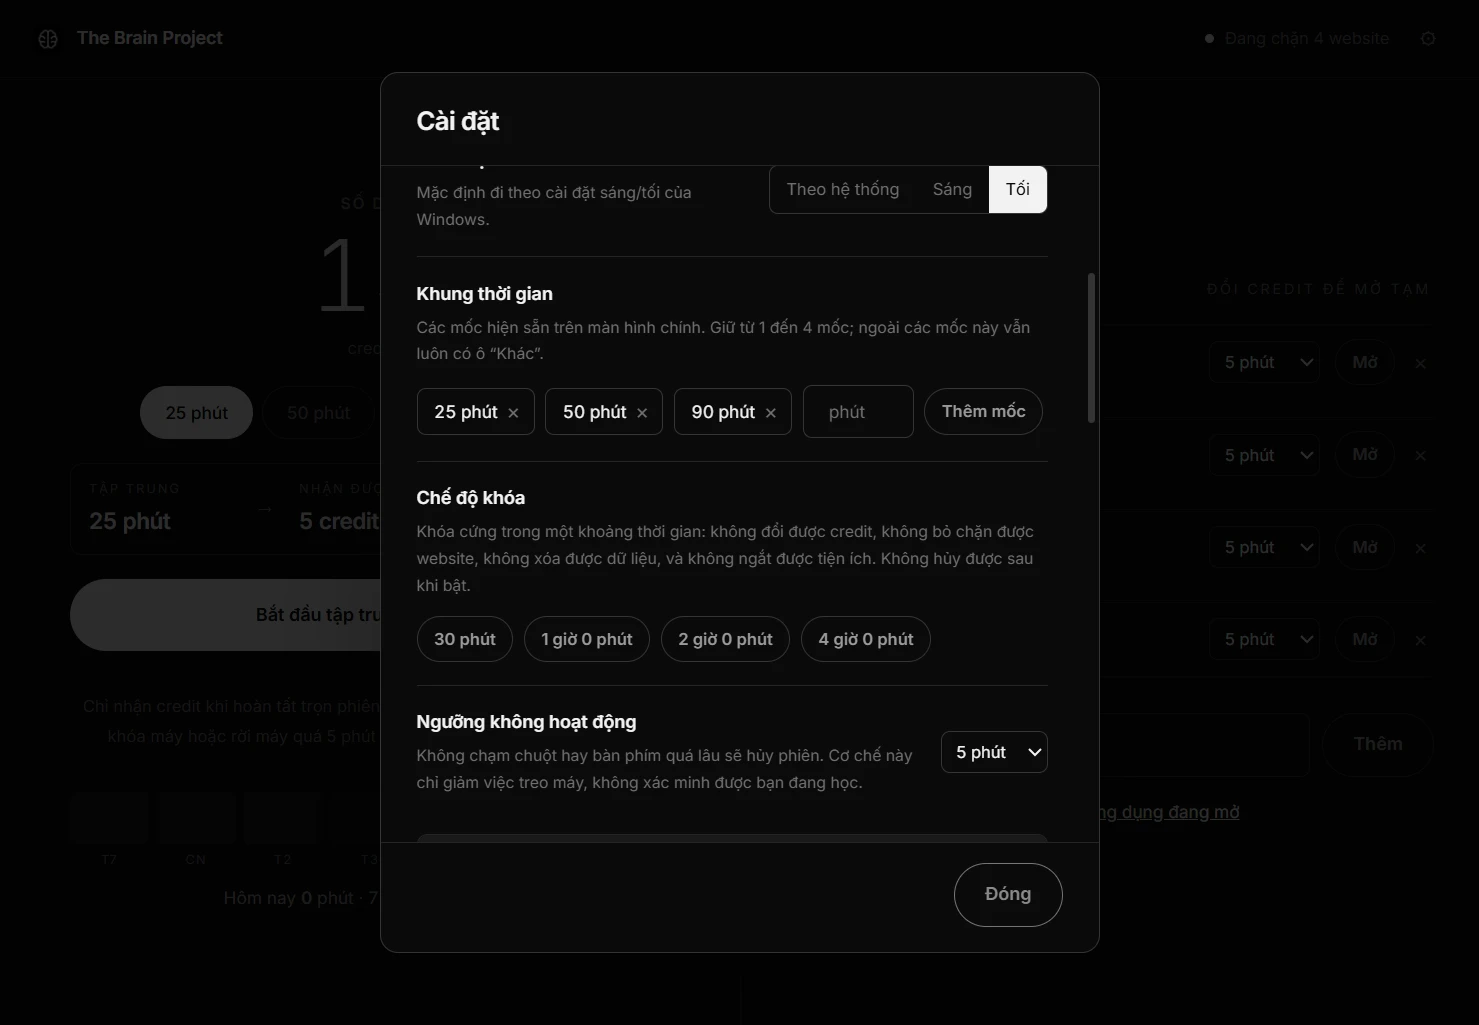
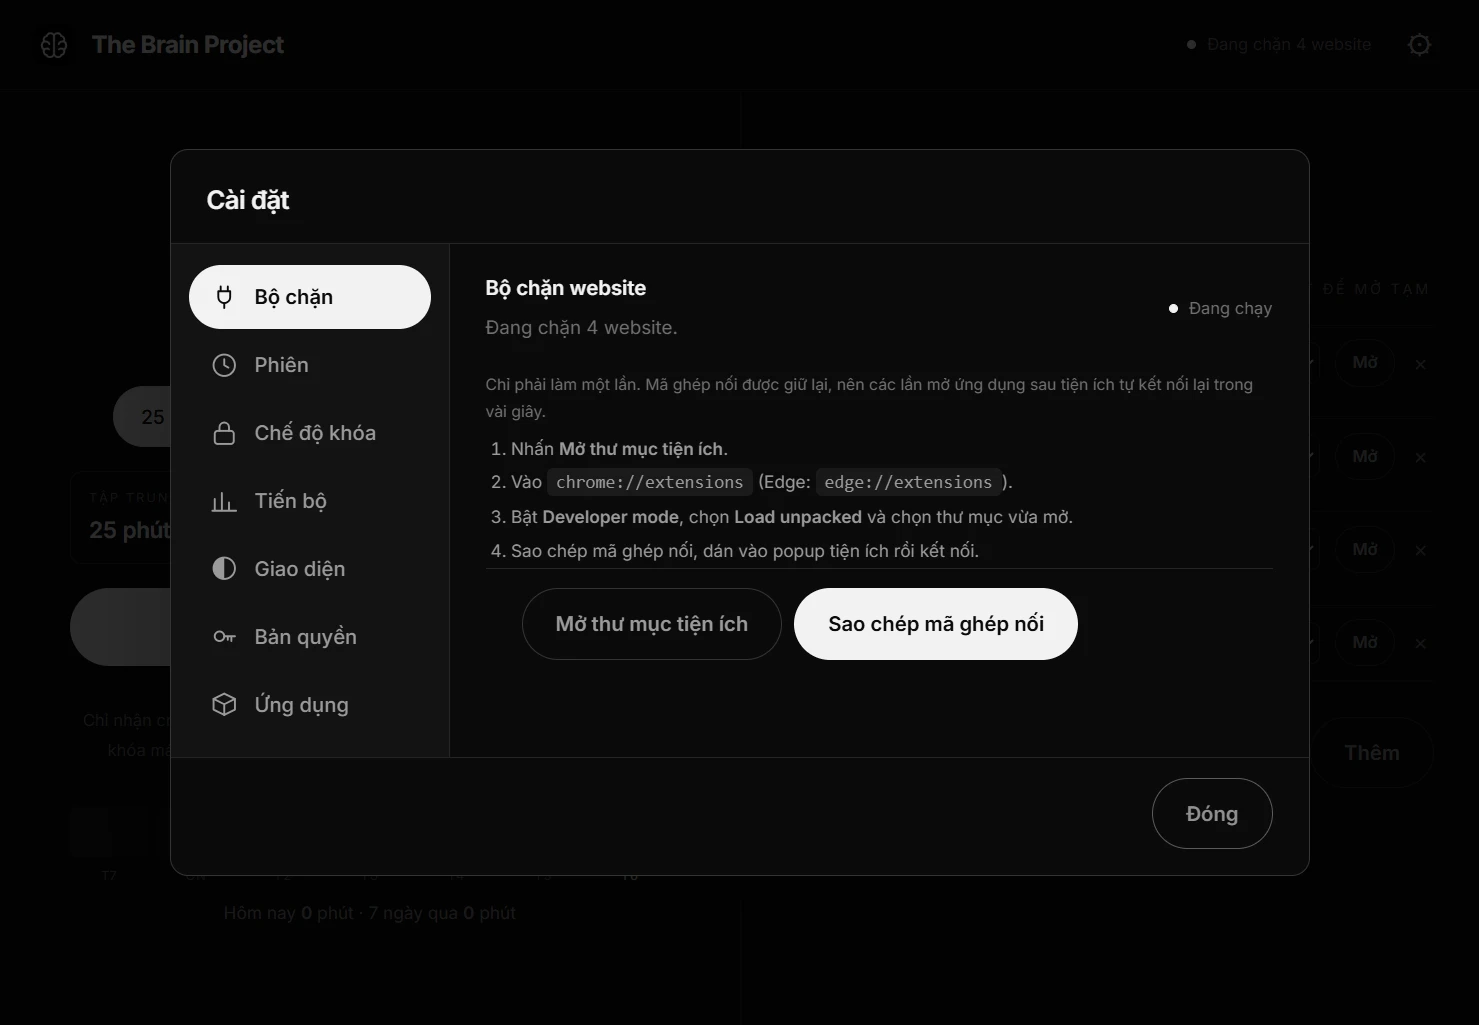
Cài đặt chia bảy tab, và phóng to chữ trong ứng dụng
Bảng cài đặt trước đây nhồi mười hai khối vào một cột cuộn, phải kéo rất
sâu mới tới mục cuối. Nay thanh mục bên trái đứng yên, chỉ phần nội dung
cuộn: Bộ chặn, Phiên, Chế độ khóa, Tiến bộ, Giao diện, Bản quyền, Ứng
dụng. Tab Chế độ khóa tự biến mất ở bậc Free, và nếu đang đứng ở đó thì
lùi về tab đầu thay vì hiện panel rỗng.

Icon vẽ bằng SVG nét chứ không dùng emoji: emoji có màu riêng và mỗi hệ
điều hành vẽ một kiểu, phá luôn nguyên tắc đơn sắc của sản phẩm.

Cỡ chữ nền 13px lên 14.5px, và các cỡ phụ thuộc nâng theo — 13px quá nhỏ
cho một app người ta mở hằng ngày. Logo 20px lên 28px, tên sản phẩm 12px
lên 16px đậm hơn, icon cài đặt 14px lên 21px và đổi từ xám sang đen.
Thanh trên cao thêm 8px để chứa.

Bốn bài kiểm phải sửa theo vì nút đã đổi chỗ, không phải vì hỏng: nút chủ
đề nay nằm trong tab Giao diện, khung thời gian trong tab Phiên, nút khóa
trong tab Chế độ khóa, nút xóa dữ liệu trong tab Ứng dụng. Bài kiểm cuộn
cũng đổi từ #setup-body sang .setup-panel, giữ nguyên ý định cũ là tiêu
đề và hàng nút phải đứng yên, và thêm phần khẳng định bấm tab thì nội
dung đổi theo.

Chụp lại toàn bộ ảnh trên website. Ảnh chế độ tối trước đó rơi đúng vào
tab Giao diện gần như trống nên cho bài kiểm bấm sang tab có nội dung
trước khi chụp.

diff --git a/src/ui/app.js b/src/ui/app.js
@@ -189,38 +189,96 @@ function licenseView(){
     <p class="small-note">Mã được lưu mã hóa trong một file riêng, <b>không nằm chung với dữ liệu</b> — nên “Xóa toàn bộ dữ liệu” không làm mất bản quyền bạn đã mua.</p></div>`;
 }
 
-function setupView(){
+// ── Cài đặt: bảy mục, mỗi mục một tab ──────────────────────────────
+// Trước đây cả mười hai khối nằm chung một cột cuộn dài, phải kéo rất sâu mới
+// tới mục cuối. Nay thanh bên trái đứng yên, chỉ phần nội dung cuộn.
+let setupTab='blocker';
+
+// Icon vẽ bằng SVG nét, không dùng emoji: emoji có màu riêng và mỗi hệ điều
+// hành vẽ một kiểu, phá luôn nguyên tắc đơn sắc của sản phẩm.
+const ICON={
+  blocker:'<path d="M9 7V3M15 7V3M7 7h10v5a5 5 0 0 1-10 0z"/><path d="M12 17v4"/>',
+  look:'<circle cx="12" cy="12" r="9"/><path d="M12 3a9 9 0 0 0 0 18z" fill="currentColor" stroke="none"/>',
+  session:'<circle cx="12" cy="12" r="9"/><path d="M12 7v5l3.5 2"/>',
+  lock:'<rect x="4" y="10" width="16" height="11" rx="2.5"/><path d="M8 10V7a4 4 0 0 1 8 0v3"/>',
+  history:'<path d="M4 20V10M10 20V5M16 20v-7M22 20H2"/>',
+  license:'<circle cx="8" cy="12" r="4"/><path d="M12 12h9M18 12v4M15 12v3"/>',
+  app:'<path d="M12 3 3 7.5v9L12 21l9-4.5v-9z"/><path d="M3 7.5 12 12l9-4.5M12 12v9"/>',
+};
+const svgIcon=id=>`<svg class="tab-ico" viewBox="0 0 24 24" fill="none" stroke="currentColor" stroke-width="1.6" stroke-linecap="round" stroke-linejoin="round" aria-hidden="true">${ICON[id]}</svg>`;
+
+function tabBlocker(){
   const connected=state.system.extensionConnected;
-  const themes=[['system','Theo hệ thống'],['light','Sáng'],['dark','Tối']];
   return `<div class="set-row"><div><b>Bộ chặn website</b><p>${connected?'Đang chặn '+state.targets.length+' website.':'Chưa chặn được website nào — tiện ích không kết nối.'}${state.system.bridgeError?'<br>'+esc(state.system.bridgeError):''}</p></div><span class="chip ${connected?'on':''}">${connected?'Đang chạy':'Chưa chạy'}</span></div>
   <p class="small-note">Chỉ phải làm một lần. Mã ghép nối được giữ lại, nên các lần mở ứng dụng sau tiện ích tự kết nối lại trong vài giây.</p>
   <ol class="steps"><li>Nhấn <b>Mở thư mục tiện ích</b>.</li><li>Vào <code>chrome://extensions</code> (Edge: <code>edge://extensions</code>).</li><li>Bật <b>Developer mode</b>, chọn <b>Load unpacked</b> và chọn thư mục vừa mở.</li><li>Sao chép mã ghép nối, dán vào popup tiện ích rồi kết nối.</li></ol>
-  <div class="actions start"><button class="ghost" data-system="extensionFolder">Mở thư mục tiện ích</button><button class="primary" data-system="copyPairing">Sao chép mã ghép nối</button></div>
-  <div class="set-row"><div><b>Giao diện</b><p>Mặc định đi theo cài đặt sáng/tối của Windows.</p></div>
-    <span class="seg" role="group" aria-label="Chủ đề giao diện">${themes.map(([id,name])=>`<button class="${state.theme===id?'on':''}" data-theme="${id}">${name}</button>`).join('')}</span></div>
-  <div class="set-row col"><div><b>Khung thời gian</b><p>Các mốc hiện sẵn trên màn hình chính. Giữ từ 1 đến ${state.maxPresets} mốc; ngoài các mốc này vẫn luôn có ô “Khác”.</p></div>
+  <div class="actions start"><button class="ghost" data-system="extensionFolder">Mở thư mục tiện ích</button><button class="primary" data-system="copyPairing">Sao chép mã ghép nối</button></div>`;
+}
+
+function tabLook(){
+  const themes=[['system','Theo hệ thống'],['light','Sáng'],['dark','Tối']];
+  return `<div class="set-row col"><div><b>Giao diện</b><p>Mặc định đi theo cài đặt sáng/tối của Windows.</p></div>
+    <span class="seg" role="group" aria-label="Chủ đề giao diện">${themes.map(([id,name])=>`<button class="${state.theme===id?'on':''}" data-theme="${id}">${name}</button>`).join('')}</span></div>`;
+}
+
+function tabSession(){
+  return `<div class="set-row col"><div><b>Khung thời gian</b><p>Các mốc hiện sẵn trên màn hình chính. Giữ từ 1 đến ${state.maxPresets} mốc; ngoài các mốc này vẫn luôn có ô “Khác”.</p></div>
     <div class="preset-edit">
       ${state.presets.map(m=>`<span class="preset-chip">${m} phút${state.presets.length>1?`<button class="x" data-preset-remove="${m}" aria-label="Bỏ khung ${m} phút">×</button>`:''}</span>`).join('')}
       ${state.presets.length<state.maxPresets?`<form class="preset-add" data-form="presetAdd"><input class="field narrow" name="minutes" type="number" min="1" max="180" placeholder="phút" aria-label="Số phút cho khung mới" required><button class="ghost small">Thêm mốc</button></form>`:'<span class="preset-note">Đã đủ mốc. Bỏ bớt một mốc để thêm mốc khác.</span>'}
     </div></div>
-  ${state.lockedMode?`<div class="set-row col"><div><b>Chế độ khóa</b><p>${locked()
-    ? `Đang khóa, còn <b>${hhmm(state.lockUntil-state.now)}</b>. Không có cách nào rút ngắn — kể cả xóa dữ liệu.`
-    : 'Khóa cứng trong một khoảng thời gian: không đổi được credit, không bỏ chặn được website, không xóa được dữ liệu, và không ngắt được tiện ích. Không hủy được sau khi bật.'}</p></div>
-    ${locked()?'':`<div class="preset-edit">${state.lockPacks.map(m=>`<button class="ghost small" data-lock="${m}">${hhmm(m*60000)}</button>`).join('')}</div>`}</div>`:''}
   <div class="set-row"><div><b>Ngưỡng không hoạt động</b><p>Không chạm chuột hay bàn phím quá lâu sẽ hủy phiên. Cơ chế này chỉ giảm việc treo máy, không xác minh được bạn đang học.</p></div>
     <select id="idle" class="field mins" aria-label="Ngưỡng không hoạt động" ${state.session?'disabled':''}>${[120,300,600,900].map(n=>`<option value="${n}" ${state.idleSeconds===n?'selected':''}>${n/60} phút</option>`).join('')}</select></div>
-  <div class="ratio"><div><span>Tập trung</span><span>Nhận được</span></div>${[25,50,90].map(m=>`<div><span>${m} phút</span><span>${creditsFor(m)} credit</span></div>`).join('')}</div>
-  <div class="set-row col"><div><b>Tiến bộ</b><p>Lưu ${state.historyDays} ngày gần nhất. Chỉ đếm phiên hoàn tất trọn vẹn.</p></div>
+  <div class="set-row col"><div><b>Bảng quy đổi</b><p>Tỉ lệ cố định, không đổi được: 5 phút tập trung bằng 1 credit.</p></div>
+    <div class="ratio"><div><span>Tập trung</span><span>Nhận được</span></div>${[25,50,90].map(m=>`<div><span>${m} phút</span><span>${creditsFor(m)} credit</span></div>`).join('')}</div></div>`;
+}
+
+function tabLock(){
+  return `<div class="set-row col"><div><b>Chế độ khóa</b><p>${locked()
+    ? `Đang khóa, còn <b>${hhmm(state.lockUntil-state.now)}</b>. Không có cách nào rút ngắn — kể cả xóa dữ liệu.`
+    : 'Khóa cứng trong một khoảng thời gian: không đổi được credit, không bỏ chặn được website, không xóa được dữ liệu, và không ngắt được tiện ích. Không hủy được sau khi bật.'}</p></div>
+    ${locked()?'':`<div class="preset-edit">${state.lockPacks.map(m=>`<button class="ghost small" data-lock="${m}">${hhmm(m*60000)}</button>`).join('')}</div>`}</div>`;
+}
+
+function tabHistory(){
+  return `<div class="set-row col"><div><b>Tiến bộ</b><p>Lưu ${state.historyDays} ngày gần nhất. Chỉ đếm phiên hoàn tất trọn vẹn.</p></div>
     <div class="ratio">${(()=>{const rows=state.history.filter(d=>d.minutes||d.interrupted).slice(0,14);
       return '<div><span>Ngày</span><span>Tập trung · nhận được</span></div>'+(rows.length
         ? rows.map(d=>`<div><span>${d.day.slice(8)}/${d.day.slice(5,7)}${d.day===state.history[0]?.day&&d.day===lastDays(1)[0].day?' · hôm nay':''}</span><span>${d.minutes} phút · ${num(d.earned)} credit${d.interrupted?` · ${d.interrupted} phiên dở`:''}</span></div>`).join('')
-        : '<div><span>Chưa có ngày nào</span><span>Hoàn tất một phiên để bắt đầu</span></div>');})()}</div></div>
-  ${licenseView()}
-  ${plansView()}
-  ${updateView()}
+        : '<div><span>Chưa có ngày nào</span><span>Hoàn tất một phiên để bắt đầu</span></div>');})()}</div></div>`;
+}
+
+function tabLicense(){ return licenseView()+plansView(); }
+
+function tabApp(){
+  return `${updateView()}
   <div class="set-row"><div><b>Góp ý</b><p>Kẹt ở đâu, thấy chỗ nào khó hiểu, hay muốn xin thêm tính năng — nói thẳng với tác giả. Ứng dụng không thu thập gì về bạn, nên đây là cách duy nhất tôi biết được điều gì đang không ổn.</p></div>
     <div class="actions start"><button class="ghost small" data-system="feedbackIssues">Mở GitHub</button><button class="primary small" data-system="feedbackEmail">Gửi email</button></div></div>
   <div class="set-row"><div><b>Dữ liệu</b><p>Chỉ lưu trên máy này và mã hóa theo tài khoản Windows. Phiên bản ${esc(state.system.version)}.</p></div><button class="ghost danger" data-system="reset" ${locked()?'disabled':''}>Xóa toàn bộ</button></div>`;
+}
+
+function setupTabs(){
+  const t=[
+    {id:'blocker', ten:'Bộ chặn',     view:tabBlocker},
+    {id:'session', ten:'Phiên',       view:tabSession},
+    {id:'lock',    ten:'Chế độ khóa', view:tabLock, an:!state.lockedMode},
+    {id:'history', ten:'Tiến bộ',     view:tabHistory},
+    {id:'look',    ten:'Giao diện',   view:tabLook},
+    {id:'license', ten:'Bản quyền',   view:tabLicense},
+    {id:'app',     ten:'Ứng dụng',    view:tabApp},
+  ];
+  return t.filter(x=>!x.an);
+}
+
+function setupView(){
+  const tabs=setupTabs();
+  // Bậc Free không có chế độ khóa nên tab đó biến mất; nếu đang đứng ở đó thì lùi về tab đầu.
+  if(!tabs.some(t=>t.id===setupTab)) setupTab=tabs[0].id;
+  const hien=tabs.find(t=>t.id===setupTab);
+  return `<nav class="setup-rail" role="tablist" aria-label="Mục cài đặt">
+    ${tabs.map(t=>`<button role="tab" aria-selected="${t.id===setupTab}" data-setup-tab="${t.id}" class="${t.id===setupTab?'on':''}">${svgIcon(t.id)}<span>${t.ten}</span></button>`).join('')}
+  </nav>
+  <div class="setup-panel" role="tabpanel">${hien.view()}</div>`;
 }
 
 const signature=s=>JSON.stringify({...s,now:0,session:s.session?{...s.session,elapsedMs:0}:null,grants:s.grants.map(g=>({...g,until:0})),lastSession:0});
@@ -259,6 +317,7 @@ document.addEventListener('click',async e=>{
   const b=e.target.closest('button');if(!b)return;
   if(b.id==='open-setup'||b.id==='warn-setup'){$('#setup-body').innerHTML=setupView();$('#setup').showModal();return;}
   if(b.id==='setup-close'){$('#setup').close();return;}
+  if(b.dataset.setupTab){setupTab=b.dataset.setupTab;$('#setup-body').innerHTML=setupView();$('.setup-panel').scrollTop=0;return;}
   if(b.id==='add-app'){pickApp();return;}
   if(b.dataset.exe){
     $('#confirm').close();$('#confirm-yes').style.display='';

diff --git a/src/ui/style.css b/src/ui/style.css
@@ -17,7 +17,7 @@
   --line:#e6e6e6; --line-2:#d8d8d8;
   --on:#0b0b0b; --on-ink:#ffffff;
   --mark-filter:none;
-  --bar-h:52px;
+  --bar-h:60px;
   --ease:cubic-bezier(.2,.7,.3,1);
 }
 /* "Theo hệ thống" đi theo Windows; hai lựa chọn kia ghi đè bằng data-theme. */
@@ -40,7 +40,7 @@
 
 *{box-sizing:border-box}
 html,body{height:100%}
-body{margin:0;background:var(--bg);color:var(--ink);font-family:Inter,'Segoe UI',system-ui,Arial,sans-serif;font-size:13px;line-height:1.6;-webkit-font-smoothing:antialiased;display:flex;flex-direction:column}
+body{margin:0;background:var(--bg);color:var(--ink);font-family:Inter,'Segoe UI',system-ui,Arial,sans-serif;font-size:14.5px;line-height:1.65;-webkit-font-smoothing:antialiased;display:flex;flex-direction:column}
 button,input,select{font:inherit;outline:none;color:inherit}
 button{cursor:pointer;transition:background .16s var(--ease),border-color .16s var(--ease),color .16s var(--ease),opacity .16s var(--ease),transform .16s var(--ease)}
 /* Phản hồi phải xuất hiện ngay lúc ngón tay/chuột NHẤN XUỐNG, không đợi lúc nhả.
@@ -50,7 +50,7 @@ button:not(:disabled):active{transform:scale(.97)}
 button:disabled,select:disabled{cursor:not-allowed;opacity:.4}
 button:focus-visible,input:focus-visible,select:focus-visible{outline:2px solid var(--ink);outline-offset:2px}
 b{font-weight:600}
-code{background:var(--shade);border-radius:3px;padding:1px 5px;font-size:11px;font-family:ui-monospace,Consolas,monospace}
+code{background:var(--shade);border-radius:4px;padding:2px 6px;font-size:12px;font-family:ui-monospace,Consolas,monospace}
 
 /* Thanh cuộn mảnh, không nền, chỉ hiện khi con trỏ ở trong vùng cuộn được. */
 ::-webkit-scrollbar{width:10px;height:10px}
@@ -61,13 +61,13 @@ code{background:var(--shade);border-radius:3px;padding:1px 5px;font-size:11px;fo
 
 /* ── thanh trên ─────────────────────────── */
 .bar{flex:none;height:var(--bar-h);display:flex;align-items:center;justify-content:space-between;padding:0 22px;border-bottom:1px solid var(--line)}
-.brand{display:flex;align-items:center;gap:9px;font-size:12px;font-weight:600;letter-spacing:-.01em}
-.brand-mark{width:20px;height:20px;flex:none;border-radius:5px;filter:var(--mark-filter)}
+.brand{display:flex;align-items:center;gap:11px;font-size:16px;font-weight:700;letter-spacing:-.02em}
+.brand-mark{width:28px;height:28px;flex:none;border-radius:7px;filter:var(--mark-filter)}
 .bar-right{display:flex;align-items:center;gap:14px}
 .chip{display:flex;align-items:center;gap:7px;font-size:11px;color:var(--muted)}
 .chip:before{content:'';width:5px;height:5px;border-radius:50%;border:1px solid var(--line-2);flex:none}
 .chip.on:before{background:var(--ink);border-color:var(--ink)}
-.icon{background:none;border:0;color:var(--muted);font-size:14px;padding:4px 6px;border-radius:5px}
+.icon{background:none;border:0;color:var(--ink);font-size:21px;line-height:1;padding:7px 9px;border-radius:999px}
 .icon:hover{background:var(--shade);color:var(--ink)}
 
 /* ── khung chính ────────────────────────── */
@@ -82,14 +82,14 @@ main.stage{grid-template-columns:minmax(0,1fr)}
 .left>*,.right>*{flex:none}
 .stage .left{max-width:520px;margin:0 auto}
 
-.label{font-size:10.5px;letter-spacing:.12em;text-transform:uppercase;color:var(--muted);font-weight:600}
+.label{font-size:11.5px;letter-spacing:.12em;text-transform:uppercase;color:var(--muted);font-weight:600}
 .figure{font-size:66px;line-height:1.05;font-weight:250;letter-spacing:-.045em;font-variant-numeric:tabular-nums}
 .unit{font-size:11px;color:var(--muted)}
 .stack{display:flex;flex-direction:column;gap:5px;align-items:center}
 
 /* ── chọn thời lượng ────────────────────── */
 .chips{display:flex;flex-wrap:wrap;justify-content:center;gap:6px}
-.chip-btn{border:1px solid var(--line-2);background:transparent;color:var(--muted);border-radius:999px;padding:8px 16px;font-size:11.5px;font-weight:500}
+.chip-btn{border:1px solid var(--line-2);background:transparent;color:var(--muted);border-radius:999px;padding:9px 18px;font-size:13px;font-weight:500}
 .chip-btn:hover{border-color:var(--ink);color:var(--ink)}
 .chip-btn.on{background:var(--on);border-color:var(--on);color:var(--on-ink)}
 .narrow{width:78px;text-align:center}
@@ -103,7 +103,7 @@ main.stage{grid-template-columns:minmax(0,1fr)}
 .rule dd{margin:0;font-size:15px;font-weight:600;letter-spacing:-.02em;font-variant-numeric:tabular-nums;white-space:nowrap}
 
 /* ── nút ────────────────────────────────── */
-.primary,.ghost{border:1px solid transparent;border-radius:999px;padding:11px 20px;font-size:12px;font-weight:600;display:inline-flex;align-items:center;justify-content:center;gap:8px}
+.primary,.ghost{border:1px solid transparent;border-radius:999px;padding:12px 22px;font-size:13.5px;font-weight:600;display:inline-flex;align-items:center;justify-content:center;gap:8px}
 .primary{background:var(--on);color:var(--on-ink)}
 .primary:hover{opacity:.84;transform:translateY(-1px)}
 .ghost{background:transparent;border-color:var(--line-2);color:var(--ink-2)}
@@ -190,7 +190,7 @@ dialog p{font-size:12px;line-height:1.8;color:var(--ink-2);margin:0}
 
 /* Bảng cài đặt: tiêu đề và nút Đóng đứng yên, chỉ phần giữa cuộn. */
 /* display phải gắn với [open], nếu không nó ghi đè dialog:not([open]){display:none} của trình duyệt. */
-#setup{padding:0;overflow:hidden;max-height:min(86vh,660px)}
+#setup{padding:0;overflow:hidden;width:min(760px,94vw);max-height:min(86vh,680px)}
 #setup[open]{display:flex;flex-direction:column}
 #setup h2{flex:none;margin:0;padding:19px 24px 15px;border-bottom:1px solid var(--line)}
 #setup-body{flex:1 1 auto;min-height:0;overflow-y:auto;padding:2px 24px 4px;overscroll-behavior:contain}
@@ -198,7 +198,7 @@ dialog p{font-size:12px;line-height:1.8;color:var(--ink-2);margin:0}
 
 .actions{display:flex;justify-content:flex-end;gap:8px;margin-top:20px;flex-wrap:wrap}
 .actions.start{justify-content:flex-start;margin:12px 0 2px}
-.set-row{display:flex;align-items:center;justify-content:space-between;gap:14px;padding:15px 0;border-top:1px solid var(--line);font-size:12px}
+.set-row{display:flex;align-items:center;justify-content:space-between;gap:14px;padding:16px 0;border-top:1px solid var(--line);font-size:13.5px}
 .set-row.col{flex-direction:column;align-items:stretch;gap:11px}
 .set-row:first-child{border-top:0;padding-top:4px}
 .preset-edit{display:flex;flex-wrap:wrap;align-items:center;gap:7px}
@@ -207,7 +207,7 @@ dialog p{font-size:12px;line-height:1.8;color:var(--ink-2);margin:0}
 .preset-add{display:flex;gap:7px;align-items:center}
 .preset-add .narrow{width:74px}
 .preset-note{font-size:10.5px;color:var(--muted)}
-.set-row p{font-size:10.5px;color:var(--muted);margin-top:4px;line-height:1.7}
+.set-row p{font-size:12.5px;color:var(--muted);margin-top:5px;line-height:1.75}
 .set-row button,.set-row .chip{white-space:nowrap}
 .seg{display:inline-flex;border:1px solid var(--line-2);border-radius:6px;overflow:hidden;flex:none}
 .seg button{border:0;background:transparent;color:var(--muted);padding:7px 11px;font-size:11px;white-space:nowrap}
@@ -268,3 +268,32 @@ dialog p{font-size:12px;line-height:1.8;color:var(--ink-2);margin:0}
 .plans .yes{font-weight:600}
 .plans .no{color:var(--muted)}
 .plans .field{width:100%}
+
+/* ── Bảng cài đặt: thanh mục bên trái ───────────────────────
+   Thanh rail đứng yên, chỉ .setup-panel cuộn. Trước đây cả mười hai khối
+   nằm chung một cột nên phải kéo rất sâu mới tới mục cuối. */
+#setup-body{display:flex;gap:0;padding:0;overflow:hidden}
+
+.setup-rail{
+  flex:none;width:186px;padding:14px 12px;border-right:1px solid var(--line);
+  display:flex;flex-direction:column;gap:3px;overflow-y:auto;background:var(--raise)
+}
+.setup-rail button{
+  display:flex;align-items:center;gap:11px;width:100%;
+  background:none;border:0;border-radius:999px;padding:10px 14px;
+  color:var(--ink-2);font-size:13.5px;font-weight:500;text-align:left
+}
+.setup-rail button:hover{background:var(--shade);color:var(--ink)}
+.setup-rail button.on{background:var(--on);color:var(--on-ink);font-weight:600}
+.setup-rail .tab-ico{width:19px;height:19px;flex:none}
+
+.setup-panel{flex:1 1 auto;min-width:0;overflow-y:auto;overscroll-behavior:contain;padding:4px 24px 10px}
+.setup-panel .set-row:first-child{border-top:0;padding-top:14px}
+
+/* Cửa sổ hẹp: rail rút còn dải icon, chữ ẩn đi để không ăn hết bề ngang. */
+@media (max-width:620px){
+  .setup-rail{width:56px;padding:12px 8px}
+  .setup-rail button{justify-content:center;padding:11px 0}
+  .setup-rail button span{display:none}
+  .setup-panel{padding:4px 16px 10px}
+}
